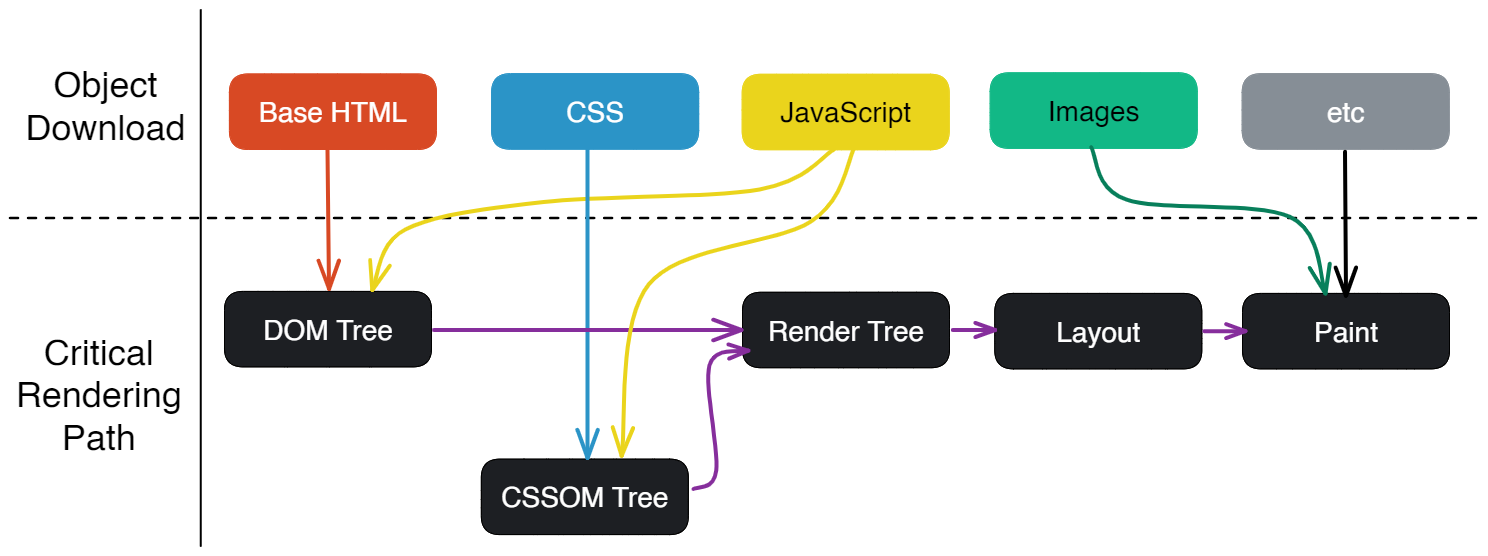
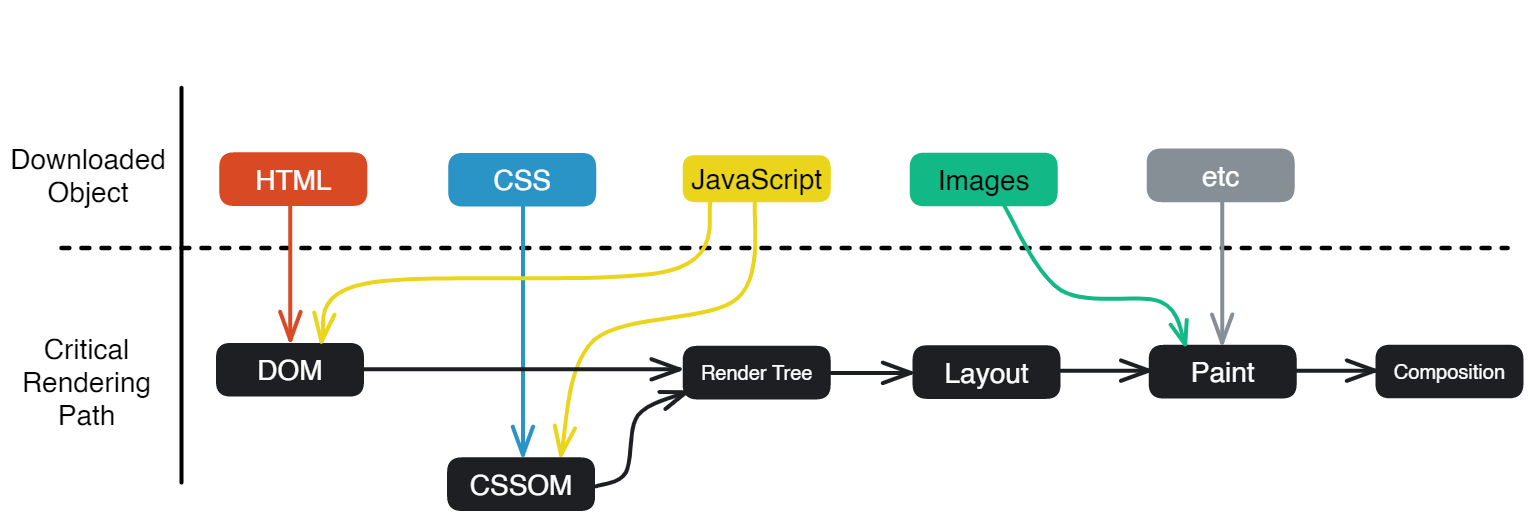
브라우저 동작 원리 포스트 최종 작업 마무리

diff --git a/content/blog/web/how-browsers-work.md b/content/blog/web/how-browsers-work.md
@@ -40,7 +40,7 @@ draft: false
     <figcaption>브라우저 네비게이션 단계.</figcaption>
 </figure>
 
-우선 첫 번째로 일어나는 일은, 올바른 장소로 찾아가는(navigate) 것입니다. 특정 웹 페이지를 찾아간다는 말은 해당 페이지에 대한 데이터(즉, 자원)가 어디에 있는지를 찾아낸다는 의미입니다.
+우선 첫 번째로 일어나는 일은, 올바른 장소로 찾아가는(navigate) 것입니다. 특정 웹 페이지를 찾아간다는 말은 해당 페이지에 대한 데이터가(즉, 자원) 어디에 있는지를 찾아낸다는 의미입니다.
 
 #### DNS Lookup
 
@@ -167,25 +167,25 @@ X-Firefox-Spdy: h2
     <figcaption>파싱 단계들.</figcaption>
 </figure>
 
-앞선 네비게이션 및 fetching 과정들을 통해 서버로부터 응답을 받기 시작하면 브라우저는 데이터를 파싱(분석)하기 시작합니다. 파싱 과정은 쉽게 말해 네트워크를 통해 서버로부터 전달받은 데이터를 DOM과 CSSOM(곧 살펴볼 예정)으로 변환하는 과정이라고 할 수 있습니다.
+앞선 네비게이션 및 fetching 과정들을 통해 서버로부터 응답을 받기 시작하면 브라우저는 데이터를 파싱(분석)하기 시작합니다. 파싱 과정은 쉽게 말해 네트워크를 통해 서버로부터 전달받은 HTML, CSS 데이터를 DOM과 CSSOM(곧 살펴볼 예정)으로 변환하는 과정이라고 할 수 있습니다.
 
 #### DOM 트리 생성
 
-우선 브라우저는 다운로드 한 HTML 파일을 분석하여 **DOM(Document Object Model)**이라는 객체 모델로 변환합니다. HTML, XML과 같이 마크업 언어로 작성된 문서들은 사람이 이해하긴 쉽지만, 컴퓨터가 사용하기엔 어려운 구조입니다. 따라서 문서를 프로그래밍 언어(주로 자바스크립트)로 쉽게 조작할 수 있는 형태로 문서를 트리 형태로 구조화한 것이 DOM 트리라고 할 수 있습니다. 일종의 API인 셈이지요.
+우선 브라우저는 다운로드 한 HTML 파일을 분석하여 **DOM(Document Object Model)**이라는 객체 모델로 변환합니다. HTML, XML과 같이 마크업 언어로 작성된 문서들은 사람이 이해하긴 쉽지만, 컴퓨터가 사용하기엔 어려운 구조입니다. 따라서 문서를 프로그래밍 언어(주로 자바스크립트)로 쉽게 조작할 수 있게 트리 형태로 구조화한 것이 DOM 트리라고 할 수 있습니다. 일종의 API인 셈이지요.
 
 HTML을 파싱하는 과정은 프로그래밍 언어를 파싱하는 일반적인 과정과는 사뭇 다릅니다. 몇 가지 이유는 다음과 같습니다:
 
 - HTML은 에러를 너그럽게 용납하기 때문입니다. 예를 들면 태그를 열고서 제대로 닫지 않는다든가(`<p>123`), 클래스 이름을 적을 때 따옴표를 쓰지 않는다든가(`<div class=abc></div>`), 중첩이 잘못 되었다든가(`<main><aside></main></aside>`)와 같은 경우들 대부분은 에러 없이 거의 정상적으로 표시됩니다.
 - HTML 파싱 프로세스 자체가 재진입(re-entrant)하는 특성을 갖습니다. 즉, 파싱 중에 자바스크립트의 `document.write()`등을 통해 새로운 요소가 추가될 수 있으므로 파싱 단계를 시작할 때의 최초 입력(원래의 HTML 문서)이 변경될 수 있습니다.
 
-이러한 이유로 인해 기존의 파싱 기법으로는 HTML을 해석할 수가 없기 때문에 브라우저들은 커스텀 parser를 구현하여 사용합니다.
+이러한 이유로 인해 기존의 파싱 기법으로는 HTML을 해석할 수가 없기 때문에 브라우저들은 커스텀 파서를 구현하여 사용합니다.
 
 HTML 파싱 알고리즘은 [HTML5 스펙](https://html.spec.whatwg.org/multipage/parsing.html)에 명시되어 있습니다. HTML 파싱 알고리즘은 크게 토큰화(tokenization)와 트리 구축(tree construction) 단계로 나눌 수 있습니다:
 
 - **토큰화 단계**: 위 HTML5 스펙에 따라 HTML 문서를 토큰으로 분리합니다. HTML 토큰에는 시작 태그(`<`), 종료 태그(`>`), 속성 이름, 속성값 등이 있습니다.
 - **트리 구축 단계**: 파싱된 토큰들을 DOM 트리 형태로 변환하는 과정입니다.
 
-앞서 말했듯이 DOM 트리는 HTML 문서의 구조를 나타내는 API 입니다. 이때 트리 형태로 나타내는 이유는 기본적으로 HTML에선 서로 다른 태그 간의 관계를 정의하고 있기 때문입니다. 어떤 태그가 다른 태그 안에 중첩되는 것과 같이요.
+앞서 말했듯이 DOM 트리는 HTML 문서의 구조를 나타내는 API 입니다. 이때 트리 형태로 나타내는 이유는 기본적으로 HTML에선 서로 다른 태그 간의 관계를 정의하고 있기 때문입니다. 어떤 태그가 다른 태그 안에 중첩되는 것처럼요.
 
 DOM 트리의 루트는 `<html>` 태그이며 트리의 각 요소를 DOM 노드라고 합니다. 당연한 말이겠지만 요소의 개수가 많을수록 DOM 트리를 만드는 데 시간이 더욱 오래 걸립니다. 파싱이 완료된 DOM 트리는 일반적으로 아래와 같은 형태가 됩니다:
 
@@ -238,7 +238,9 @@ CSSOM의 각 노드에는 해당 노드가 타겟으로 하는 DOM 요소의 스
 
 #### Render 트리 구축
 
-이 단계에선 DOM 트리와 CSSOM 트리를 합쳐 **렌더 트리(render tree)**를 만듭니다. 렌더 트리를 구축하는 과정은 일반적으로 다음과 같습니다:
+이 단계에선 DOM 트리와 CSSOM 트리를 합쳐 **렌더 트리(render tree)**를 만듭니다. 렌더 트리는 말 그대로 화면에 렌더링할 요소들의 정보들을 나타내는 자료 구조라고 보시면 될 것 같습니다. 
+
+렌더 트리를 구축하는 과정은 일반적으로 다음과 같습니다:
 
 1. DOM의 루트부터 시작하여 "visible" 한 요소를 탐색해 나갑니다.
    - 이때, 개인적으로 "visible" 한 요소의 의미를 "실재하는(existence)" 요소라고 생각합니다. 즉, 화면에 "실재(實在)"하는 요소들만 렌더 트리의 노드로 포함하는 것이죠. 실재하지 않는 요소라는 말은, 요소가 눈에 보이지도 않을 뿐 더러 화면 상에 아무런 공간도 차지하지 않는다는 것입니다.
@@ -324,7 +326,7 @@ CSSOM의 각 노드에는 해당 노드가 타겟으로 하는 DOM 요소의 스
     <figcaption>z-index가 적용된 요소를 그리는 예시. 출처: https://developers.google.com/web/updates/2018/09/inside-browser-part3</figcaption>
 </figure>
 
-따라서 페인트 단계에서 메인 스레드는 레이아웃 트리를 이용하여 **페인트 기록(paint records)**을 만듭니다. 페인트 기록은 페인팅 과정을 기록한 노트라고 볼 수 있습니다. "바탕 먼저 그리고, 그 다음 텍스트, 그 다음 사각형" 과 같이 말이죠. `<canvas>`를 사용해보셨다면 이와 비슷한 경험을 해보신적이 있으실 겁니다.
+따라서 페인트 단계에서 메인 스레드는 레이아웃 트리를 이용하여 **페인트 기록(paint records)**을 만듭니다. 페인트 기록은 페인팅 과정을 어떻게 수행할지를 기록한 노트라고 볼 수 있습니다. "바탕 먼저 그리고, 그 다음 텍스트, 그 다음 사각형" 과 같이 말이죠. `<canvas>`를 사용해보셨다면 이와 비슷한 경험을 해보신적이 있으실 겁니다.
 
 CSS2 스펙에 명시된 페인팅 순서는 [여기](https://www.w3.org/TR/CSS21/zindex.html)서 보실 수 있습니다.
 
@@ -339,18 +341,18 @@ CSS2 스펙에 명시된 페인팅 순서는 [여기](https://www.w3.org/TR/CSS2
     <figcaption>가장 단순한 그리기 방법 출처: https://developers.google.com/web/updates/2018/09/inside-browser-part3</figcaption>
 </figure>
 
-하지만 현대의 브라우저들은 **합성(composition)** 이라는 더욱 정교한 기법으로 화면을 그립니다. 합성이란 페이지를 레이어(layer)로 나눈 다음, 각 레이어를 따로따로 래스터화한 뒤 다시 하나의 페이지로 합치는 기법입니다. 만약 유저가 스크롤을 하면 레이어들은 이미 래스터화가 완료된 상태이므로 브라우저가 할 일은 단순히 레이어들을 새로 합치는 것입니다. 애니메이션도 이와 같은 방식으로 레이어들을 새로 합쳐서 구현할 수 있습니다:
+하지만 현대의 브라우저들은 **합성(composition)** 이라는 더욱 정교한 기법으로 화면을 그립니다. 합성이란 페이지를 레이어(layer)로 나눈 다음, 각 레이어를 따로따로 래스터화한 뒤 다시 하나의 페이지로 합치는 기법입니다. 만약 유저가 스크롤을 하면 레이어들은 이미 래스터화가 완료된 상태이므로 브라우저는 단순히 레이어들을 새로 합치기만 하면 됩니다. 애니메이션도 이와 같은 방식으로 레이어들을 새로 합쳐서 구현할 수 있습니다:
 
 <figure>
     <img src="https://cdn.jsdelivr.net/gh/jaehyeon48/jaehyeon48.github.io@master/assets/images/web/how_browsers_work/composition.gif" alt="합성." />
     <figcaption>합성. 출처: https://developers.google.com/web/updates/2018/09/inside-browser-part3</figcaption>
 </figure>
 
-요소가 어떤 레이어 위에 가야 하는지를 알아내기 위해 메인 스레드는 레이아웃 트리를 이용하여 **레이어 트리(layer tree)**를 만들어 냅니다. `<video>`, `<canvas>` 요소 및 CSS의 `opacity`, 3D `transform` 속성 등은 새로운 레이어를 생성하도록 합니다. 또한, 슬라이드 메뉴와 같이 페이지의 어느 부분이 별도의 레이어로 구성되어야 하는데 그렇지 못하다면 CSS의 `will-change` 속성을 이용하여 별도의 레이어로 구성되게끔 할 수 있습니다. 이외에도 레이어를 생성하도록 하는 것들은 [여기](https://www.html5rocks.com/en/tutorials/speed/layers/#toc-layercreation)서 보실 수 있습니다.
+요소가 어떤 레이어에 존재해야 하는지를 알아내기 위해 메인 스레드는 레이아웃 트리를 이용하여 **레이어 트리(layer tree)**를 만들어 냅니다. `<video>`, `<canvas>` 요소 및 CSS의 `opacity`, 3D `transform` 속성 등은 새로운 레이어를 생성하도록 합니다. 또한, 슬라이드 메뉴와 같이 페이지의 특정 부분을 다른 레이어로 분리하고 싶다면 CSS의 `will-change` 속성을 이용하여 별도의 레이어로 구성되게끔 할 수 있습니다. 이외에도 레이어를 생성하도록 하는 것들은 [여기](https://www.html5rocks.com/en/tutorials/speed/layers/#toc-layercreation)서 보실 수 있습니다.
 
-일반적으로, 레이어를 이용하면 GPU를 사용하여 그리기 때문에 성능이 향상될 수 있습니다. 하지만 무턱대고 `will-change` 같은 속성을 남발하여 레이어를 과도하게 많이 만들게 되면 오히려 합성하는데 시간이 더 걸리게될 수도 있으므로 반드시 성능을 먼저 측정한 다음 최적화를 수행해야만 합니다.
+일반적으로, 레이어를 이용하면 GPU를 사용하여 그리기 때문에 성능이 향상될 수 있습니다. 하지만 무턱대고 `will-change` 같은 속성을 남발하여 레이어를 과도하게 많이 만들게 되면 오히려 합성하는데 시간이 더 걸리게될 수도 있고, 메모리 낭비가 발생할 수도 있으므로 반드시 성능을 먼저 측정한 다음 최적화를 수행해야만 합니다.
 
-이렇게 레이어 트리가 만들어지고 페인트 순서가 결정되면 브라우저의 메인 스레드는 이러한 정보들을 합성 스레드(compositor thread)로 넘깁니다. 그리고 이러한 정보들을 넘겨받은 합성 스레드는 각 레이어를 래스터화 하기 시작합니다. 어떤 레이어는 페이지 길이만큼 길 수도 있기 때문에 합성 스레드는 레이어를 **타일(tile)**로 나눈 다음 각 타일들을 래스터 스레드로 넘깁니다. 그럼 래스터 스레드는 각 타일을 래스터화 하고 이들을 GPU 메모리에 저장합니다:
+이렇게 레이어 트리가 만들어지고 페인트 순서가 결정되면 브라우저의 메인 스레드는 이러한 정보들을 합성 스레드(compositor thread)로 넘깁니다. 그리고 이러한 정보들을 넘겨받은 합성 스레드는 각 레이어를 래스터화 하기 시작합니다. 어떤 레이어는 그 크기가 전체 페이지 길이만큼 길 수도 있기 때문에 합성 스레드는 레이어를 **타일(tile)**로 나눈 다음 각 타일들을 래스터 스레드로 넘깁니다. 그럼 래스터 스레드는 각 타일을 래스터화 하고 이들을 GPU 메모리에 저장합니다:
 
 <figure>
     <img src="https://cdn.jsdelivr.net/gh/jaehyeon48/jaehyeon48.github.io@master/assets/images/web/how_browsers_work/raster_thread.png" alt="래스터 스레드의 동작" />
@@ -359,13 +361,13 @@ CSS2 스펙에 명시된 페인팅 순서는 [여기](https://www.w3.org/TR/CSS2
 
 | 💡                                                                                                                                                                                                                                                  |
 | --------------------------------------------------------------------------------------------------------------------------------------------------------------------------------------------------------------------------------------------------- |
-| 래스터화 작업 역시 GPU의 도움을 받기 좋은 단계 입니다.. 이와 관련한 더 자세한 내용은 [Software vs. GPU Rasterization in Chromium](https://software.intel.com/content/www/us/en/develop/articles/software-vs-gpu-rasterization-in-chromium.html)을 참고하세요. |
+| 래스터화 작업 역시 GPU의 도움을 받기 좋은 단계 입니다. 이와 관련한 더 자세한 내용은 [Software vs. GPU Rasterization in Chromium](https://software.intel.com/content/www/us/en/develop/articles/software-vs-gpu-rasterization-in-chromium.html)을 참고하세요. |
 
 | 💡                                                                                                                                                                                                                                                                                                                                                                                                                                                                                                                                                                                                                             |
 | ------------------------------------------------------------------------------------------------------------------------------------------------------------------------------------------------------------------------------------------------------------------------------------------------------------------------------------------------------------------------------------------------------------------------------------------------------------------------------------------------------------------------------------------------------------------------------------------------------------------------------ |
-| 합성 스레드 내부에도 레이어 트리가 여러 개 있습니다. 메인 스레드가 넘긴 레이어 트리는 합성 스레드의 **대기 트리(pending tree)**로 복사됩니다. 대기 트리 최신 프레임을 나타내지만, 아직 화면에는 그려지지 않은 상태입니다. 현재 화면에 그려지고 있는 이전 프레임은 **활성 트리(active tree)**로 그린 프레임입니다. 최신 정보로 화면을 갱신할 때는 대기 트리와 활성 트리를 스왑합니다. 이와 관련한 더 자세한 내용은 [Native One-copy Texture Uploads for Chrome OS...](https://software.intel.com/content/www/us/en/develop/articles/native-one-copy-texture-uploads-for-chrome-os-on-intel-architecture-enabled-by-default.html)를 참고하세요. |
+| 합성 스레드 내부에도 레이어 트리가 여러 개 있습니다. 메인 스레드가 넘긴 레이어 트리는 합성 스레드의 **대기 트리(pending tree)**로 복사됩니다. 대기 트리는 최신 프레임을 나타내지만, 아직 화면에는 그려지지 않은 상태입니다. 현재 화면에 그려지고 있는 이전 프레임은 **활성 트리(active tree)**로 그린 프레임입니다. 최신 정보로 화면을 갱신할 때는 대기 트리와 활성 트리를 스왑합니다. 이와 관련한 더 자세한 내용은 [Native One-copy Texture Uploads for Chrome OS...](https://software.intel.com/content/www/us/en/develop/articles/native-one-copy-texture-uploads-for-chrome-os-on-intel-architecture-enabled-by-default.html)를 참고하세요. |
 
-이때 합성 스레드는 래스터 스레드의 우선순위를 조정할 수 있는데, 이렇게 해서 뷰포트(혹은 뷰포트 근처)에 있는 요소들이 먼저 래스터화될 수 있도록 할 수 있습니다. 또한 각 레이어는 화면을 줌-인했을때를 대비해 화소(resolution)가 다른 여러 개의 타일을 준비합니다.
+이때 합성 스레드는 래스터 스레드의 우선순위를 조정할 수 있는데, 이렇게 해서 뷰포트(혹은 뷰포트 근처)에 있는 요소들이 먼저 래스터화될 수 있도록 할 수 있습니다. 또한 각 레이어는 화면을 줌-인 했을때를 대비해 화소(resolution)가 다른 여러 개의 타일을 준비합니다.
 
 이렇게 타일을 래스터화하고 나면 합성 스레드는 **draw quads**라고 하는 타일들의 정보를 모아서 **합성 프레임(compositor frame)**을 만듭니다:
 
@@ -396,14 +398,14 @@ CSS2 스펙에 명시된 페인팅 순서는 [여기](https://www.w3.org/TR/CSS2
     <figcaption>렌더링 파이프라인 업데이트. 출처: https://developers.google.com/web/updates/2018/09/inside-browser-part3</figcaption>
 </figure>
 
-만약 어떤 요소에 애니메이션을 적용한 경우, 브라우저는 애니메이션과 관련된 작업을 매 프레임 사이마다 수행해야만 합니다. 대부분의 디스플레이들은 60fps(즉, 화면을 1초에 60번 리프레쉬 함)이므로 이러한 작업을 약 16.66ms 마다 해야한다는 뜻이죠. 이렇게 매 프레임(초당 60개의 프레임)마다 요소들을 움직인다면 사용자의 눈에는 부드럽게 움직이는 것처럼 보일 것입니다. 하지만 만약 몇몇 프레임을 빠트렸다면 페이지는 "버벅(janky)"이는 것처럼 보일 것입니다:
+만약 어떤 요소에 애니메이션을 적용한 경우, 브라우저는 애니메이션과 관련된 작업을 매 프레임 사이마다 수행해야만 합니다. 대부분의 디스플레이들은 60fps(즉, 화면을 1초에 60번 리프레쉬 함)이므로 이러한 작업을 약 16.66ms 마다 해야한다는 뜻이죠. 이렇게 매 프레임(초당 60개의 프레임)마다 요소들을 움직인다면 사용자의 눈에는 부드럽게 움직이는 것처럼 보일 것입니다. 하지만 만약 몇몇 프레임을 빠트리게 되면 페이지는 "버벅(janky)"이는 것처럼 보일 것입니다:
 
 <figure>
     <img src="https://cdn.jsdelivr.net/gh/jaehyeon48/jaehyeon48.github.io@master/assets/images/web/how_browsers_work/pagejank1.png" alt="애니메이션 프레임 타임라인" />
     <figcaption>애니메이션 프레임 타임라인. 출처: https://developers.google.com/web/updates/2018/09/inside-browser-part3</figcaption>
 </figure>
 
-렌더링 작업이 화면 주사율에 잘 맞춰 진행되고 있다고 하더라도, 이러한 계산들은 메인 스레드에서 동작하기 때문에 애플리케이션이 다른 자바스크립트 작업을 수행한다면 이로 인해 화면이 버벅대는 것처럼 보일 수도 있습니다:
+렌더링 작업이 화면 주사율에 잘 맞춰 진행되고 있다고 하더라도, 이러한 계산들은 메인 스레드에서 동작하기 때문에 만약 애플리케이션이 다른 자바스크립트 작업을 수행한다면 이로 인해 렌더링 작업을 처리하지 못해 화면이 버벅대는 것처럼 보일 수도 있습니다:
 
 <figure>
     <img src="https://cdn.jsdelivr.net/gh/jaehyeon48/jaehyeon48.github.io@master/assets/images/web/how_browsers_work/pagejank2.png" alt="자바스크립트로 인해 버벅임 발생" />
@@ -424,7 +426,7 @@ CSS2 스펙에 명시된 페인팅 순서는 [여기](https://www.w3.org/TR/CSS2
 - https://dev.to/gitpaulo/journey-of-a-web-page-how-browsers-work-10co
 - https://www.html5rocks.com/en/tutorials/internals/howbrowserswork/#CSS_parsing
 - https://medium.com/jspoint/how-the-browser-renders-a-web-page-dom-cssom-and-rendering-df10531c9969
-- https://developers.google.com/web/updates/2018/09/inside-browser-part3#construction_of_a_dom
+- https://developers.google.com/web/updates/2018/09/inside-browser-part3
 - https://developers.google.com/web/fundamentals/performance/critical-rendering-path
 - https://developer.mozilla.org/en-US/docs/Web/Performance/How_browsers_work
 - https://www.html5rocks.com/en/tutorials/speed/layers/
